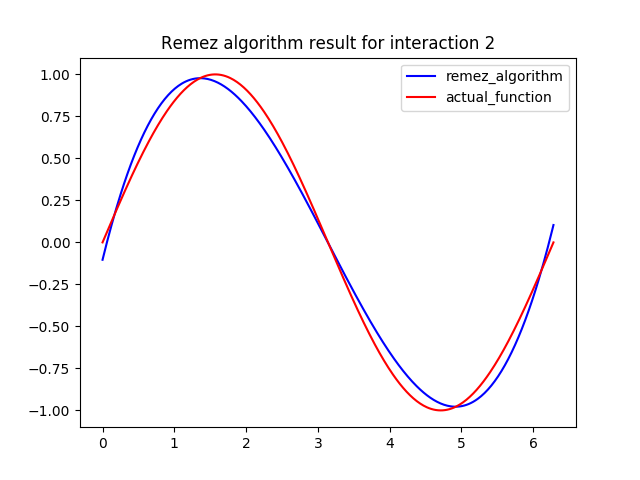
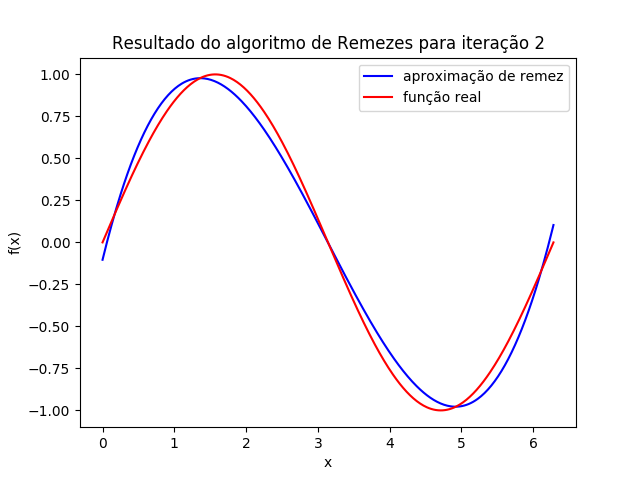
Changed ouput graphs to portuguese

Changed region(s): [[0.1562, 0.0625, 0.875, 0.2188], [0.5625, 0.1562, 0.5938, 0.2188], [0.0, 0.4688, 0.0312, 0.5312]]

diff --git a/run.py b/run.py
@@ -34,7 +34,7 @@ while loop == True:
     print("Chebyshev nodes: ", chebyshev_nodes)
 
     E = symbols('x')
-    b_vector, E = remez.enforce_oscillation_criteria(chebyshev_nodes, E)
+    b_vector, E = remez.solve_system(chebyshev_nodes, E)
     print("B vector (from b0 to bn): ", b_vector)
     print("Error E: ", E)
 
@@ -47,19 +47,22 @@ while loop == True:
     t_error = np.linspace(0, 2*math.pi, 1000)
     y_error = np.sin(t_error) - polynomial(t_error)
     plt.plot(t_error, y_error, 'b')
-    plt.title('Error function for iteration {}'.format(i))
+    plt.title('Função erro para iteração {}'.format(i))
+    plt.xlabel('x')
+    plt.ylabel('e(x) = f(x) - p(x)')
     plt.savefig(output_path+'error_function_{}.png'.format(i))
     plt.show()
 
     # Plot graphs
-    title = 'Remez algorithm result for interaction {}'.format(i)
     t = np.linspace(0, 2*math.pi, 400)
     y1 = polynomial(t)
     y2 = np.sin(t)
-    plt.plot(t, y1, 'b', label='remez_algorithm')
-    plt.plot(t, y2, 'r', label='actual_function')
+    plt.plot(t, y1, 'b', label='aproximação de remez')
+    plt.plot(t, y2, 'r', label='função real')
+    plt.xlabel('x')
+    plt.ylabel('f(x)')
     plt.legend()
-    plt.title(title)
+    plt.title('Resultado do algoritmo de Remezes para iteração {}'.format(i))
     plt.savefig(output_path+'remez_result_{}.png'.format(i))
     plt.show()
 

diff --git a/Remez.py b/Remez.py
@@ -22,7 +22,7 @@ class Remez():
         
         return chebyshev_nodes
     
-    def enforce_oscillation_criteria(self, chebyshev_nodes, E):
+    def solve_system(self, chebyshev_nodes, E):
         end_iteration = self.n + 2
         matrix_a = [[1] for i in range(end_iteration)]
         matrix_b = []
